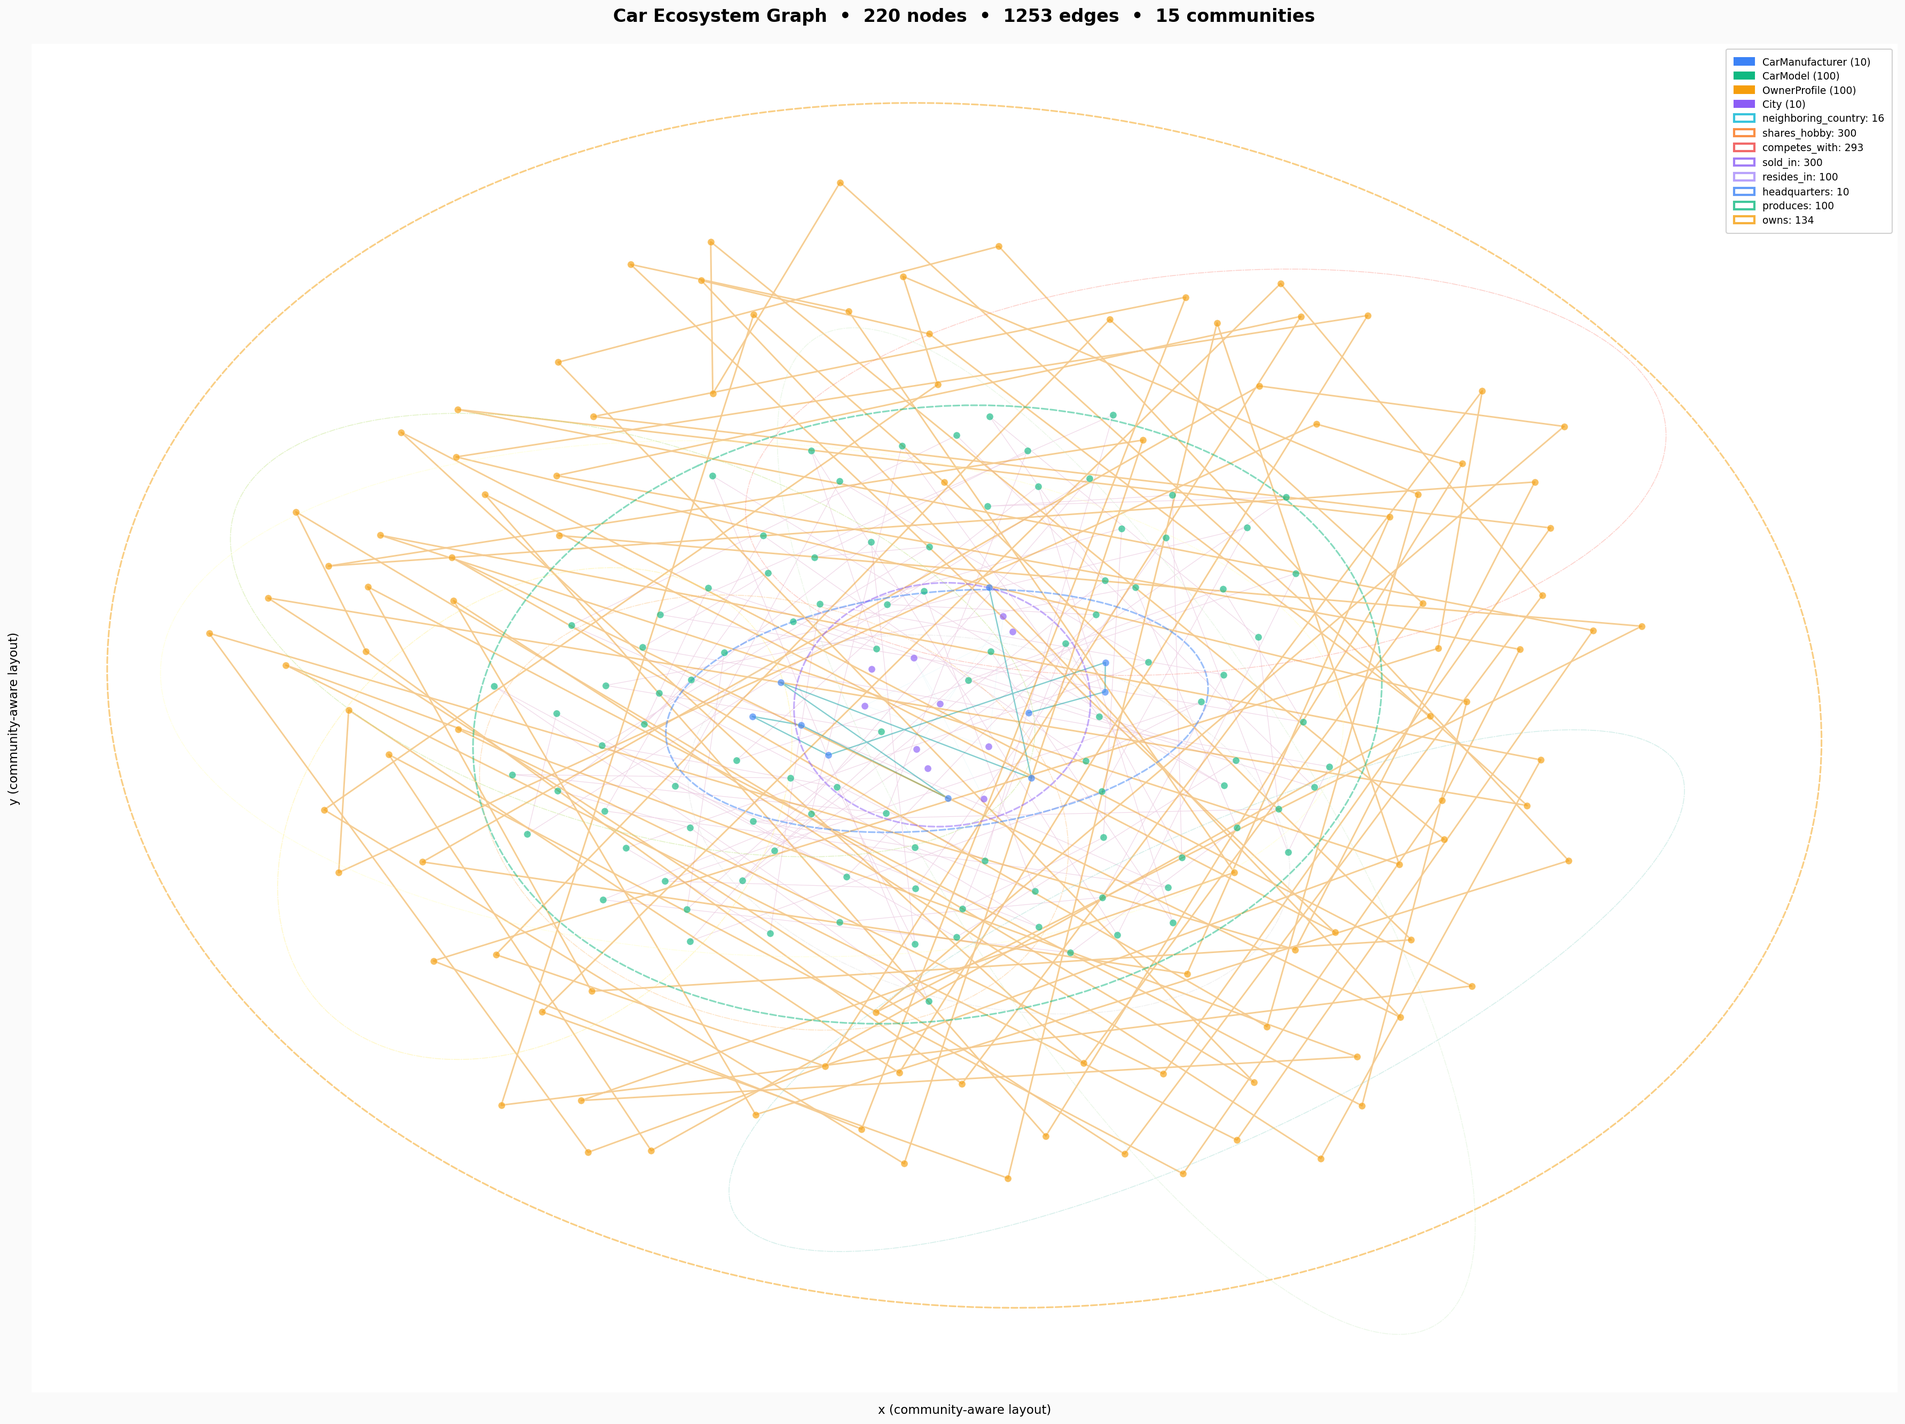
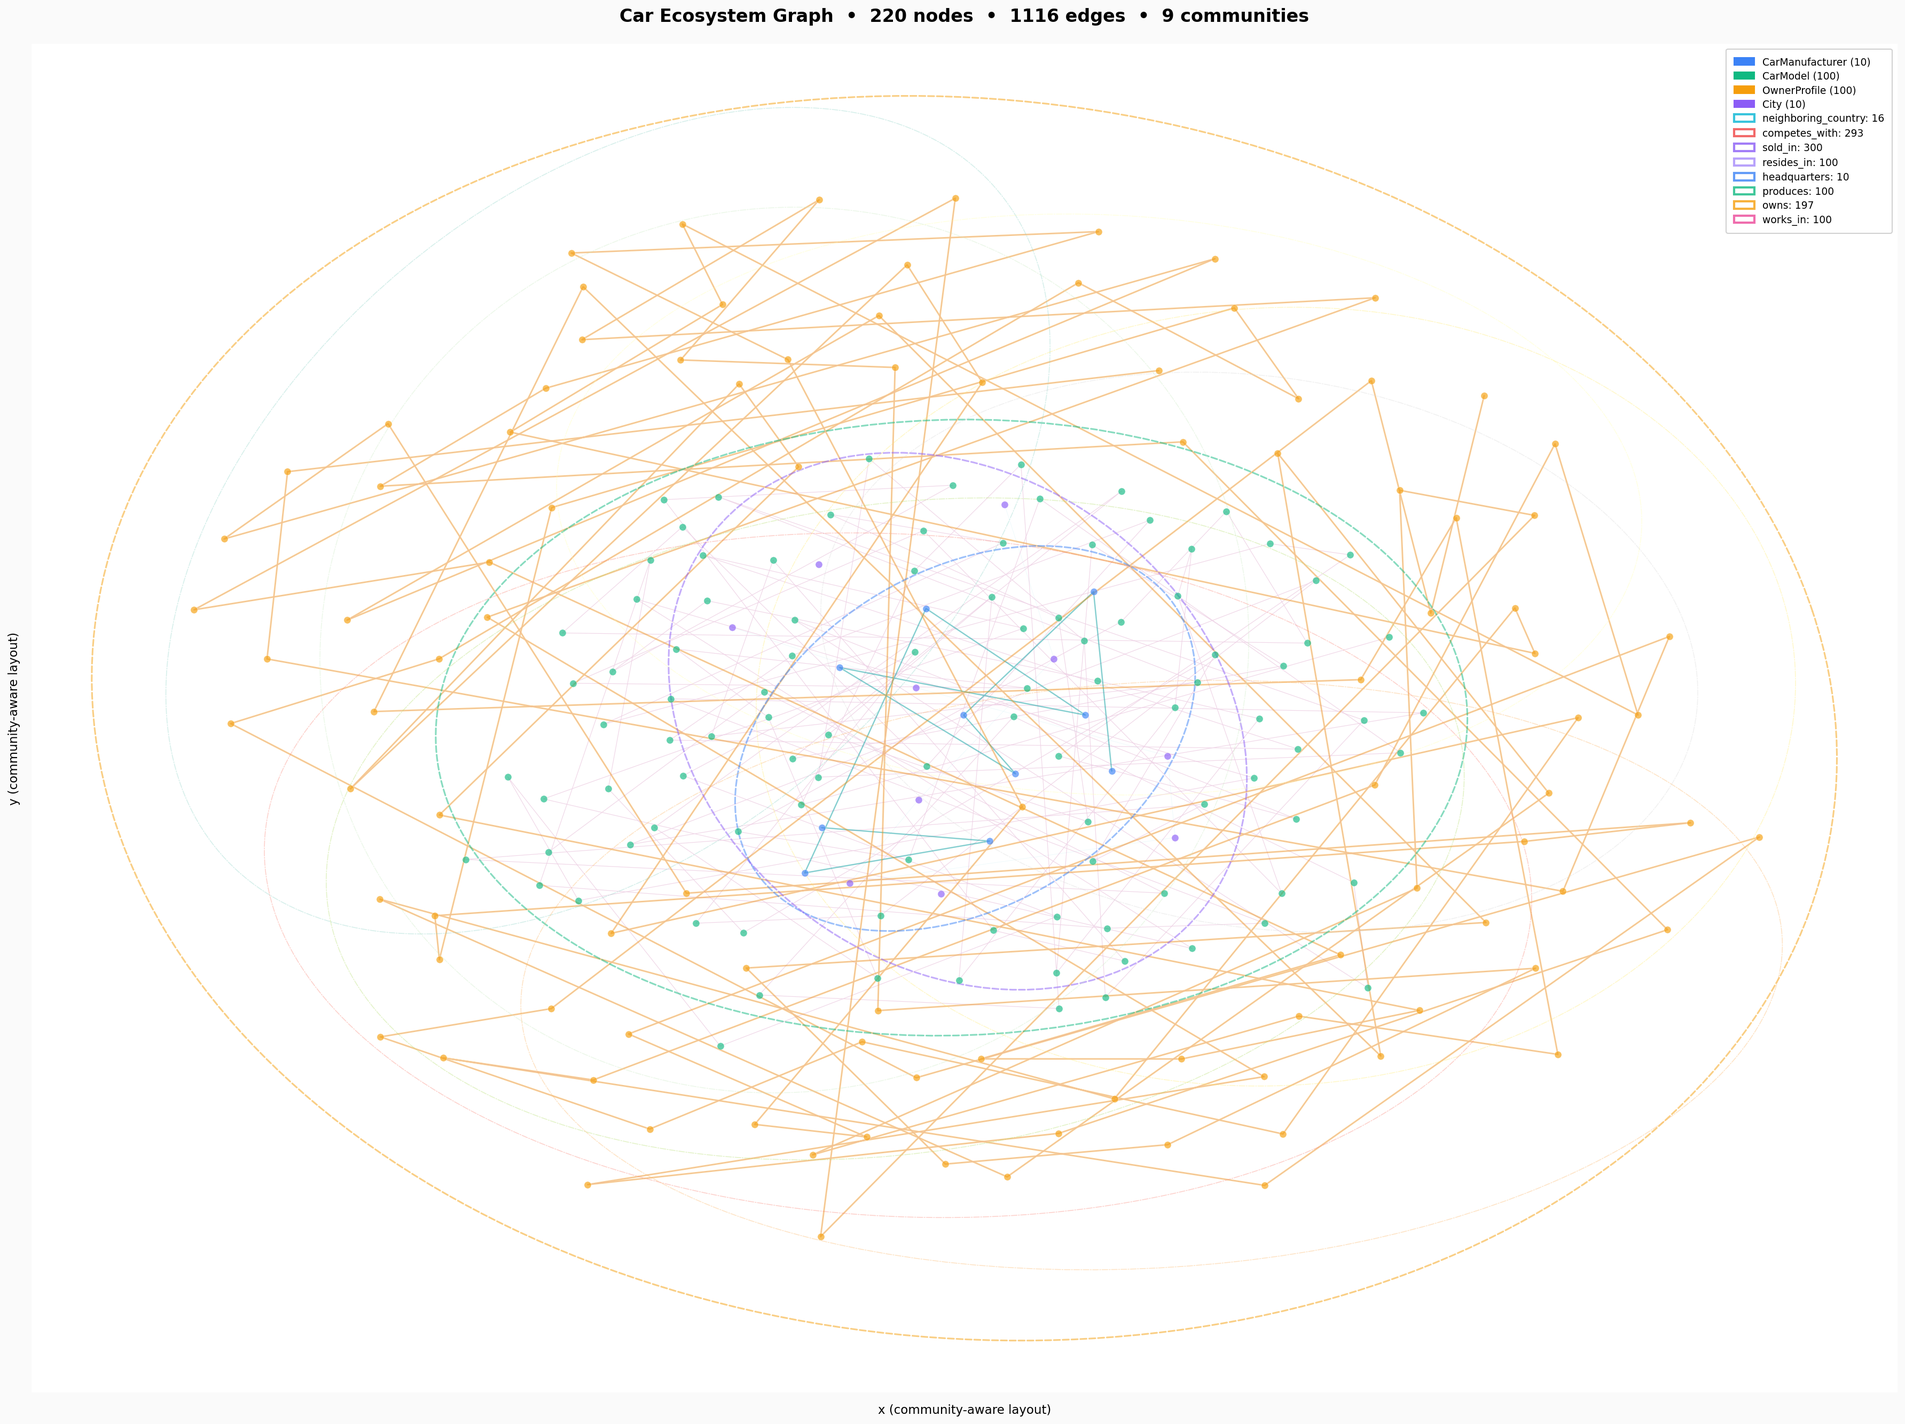
feat(examples): correct car-ecosystem graph constraints and add example_6
example_5.py:
- Add works_in edge (OwnerProfile → City, different from home)
- Restore owns edge to 1-3 cars per owner with random selection
- Remove shares_hobby edge between OwnerProfiles
- Update docstring and edge legend accordingly

example_6.py:
- New car-ecosystem graph with only 4 node types: CarManufacturer,
  CarModel, OwnerProfile, City
- Only 4 edge types: produces (10 per manufacturer), owns (1-2
  per owner), resides_in (home city), works_in (same or different
  from home city)
- No community detection – pure force-directed layout
- Deterministic generation with SEED=42

diff --git a/examples/example_6.py b/examples/example_6.py
@@ -1,0 +1,218 @@
+"""Example 6 – generate a car-ecosystem graph and visualise it.
+
+Deterministic graph generation (SEED=42) with exactly:
+  - 10 CarManufacturer nodes
+  - 100 CarModel nodes (10 per manufacturer)
+  - 100 OwnerProfile nodes
+  - 10 City nodes
+
+Edges (4 types only):
+  - produces   : CarManufacturer → CarModel (10 per manufacturer)
+  - owns       : OwnerProfile → CarModel (1-2 per owner)
+  - resides_in : OwnerProfile → City (home city)
+  - works_in   : OwnerProfile → City (can be same or different from home)
+
+No community detection – pure force-directed layout.
+
+Output: example_6_graph.png (deterministic every run).
+"""
+
+import os
+import random
+from sqlalchemy import create_engine
+from sqlalchemy.orm import sessionmaker
+
+import matplotlib
+matplotlib.use("Agg")
+import matplotlib.pyplot as plt
+import matplotlib.patches as mpatches
+import numpy as np
+
+import networkx as nx
+
+import nx_sql
+from nx_sql.models import Base
+
+SEED = 23
+
+_DIR = os.path.abspath(os.path.dirname(__file__))
+DB_PATH = os.path.join(_DIR, "..", "example_6.db")
+OUTPUT_PNG = os.path.join(_DIR, "example_6_graph.png")
+
+EDGE_STYLES = {
+    "produces":  ("#10B981", 0.35, 1.2),
+    "owns":      ("#F59E0B", 0.40, 1.5),
+    "resides_in":("#A78BFA", 0.15, 0.6),
+    "works_in":  ("#EC4899", 0.15, 0.6),
+}
+
+COMPANY_NAMES = [
+    "Toyota", "Volkswagen", "Ford", "General Motors", "Honda",
+    "Stellantis", "Hyundai", "BMW", "Mercedes-Benz", "Audi",
+]
+
+COMPANY_DATA = [
+    {"headquarters": "Toyota City",  "country": "Japan",       "founded_year": 1937, "employee_count": 372817},
+    {"headquarters": "Wolfsburg",    "country": "Germany",     "founded_year": 1937, "employee_count": 675805},
+    {"headquarters": "Dearborn",     "country": "USA",         "founded_year": 1903, "employee_count": 403000},
+    {"headquarters": "Detroit",      "country": "USA",         "founded_year": 1908, "employee_count": 163000},
+    {"headquarters": "Chuo, Tokyo",  "country": "Japan",       "founded_year": 1948, "employee_count": 204000},
+    {"headquarters": "Rome",         "country": "Italy",       "founded_year": 2011, "employee_count": 250000},
+    {"headquarters": "Seoul",        "country": "South Korea", "founded_year": 1967, "employee_count": 123000},
+    {"headquarters": "Munich",       "country": "Germany",     "founded_year": 1916, "employee_count": 109000},
+    {"headquarters": "Stuttgart",    "country": "Germany",     "founded_year": 1926, "employee_count": 172000},
+    {"headquarters": "Ingolstadt",   "country": "Germany",     "founded_year": 1909, "employee_count": 107000},
+]
+
+CAR_TEMPLATES = {
+    "Toyota": [
+        ("Corolla",  "sedan",       "1.8L I4 Hybrid",    139, 139, 1370),
+        ("Camry",    "sedan",       "2.5L I4",           203, 184, 1590),
+        ("RAV4",     "suv",         "2.5L I4 Hybrid",    219, 163, 1700),
+        ("Highlander","suv",        "3.5L V6",           295, 263, 1995),
+        ("Prius",    "hatchback",   "1.8L I4 Hybrid",    121, 142, 1380),
+        ("Land Cruiser","suv",      "3.5L Twin-Turbo V6",409, 479, 2560),
+        ("Supra",    "sports_car",  "3.0L Turbo I6",     382, 485, 1495),
+        ("Yaris",    "hatchback",   "1.5L I3",           106, 138, 1070),
+        ("Sienna",   "minivan",     "2.5L I4 Hybrid",    245, 243, 2070),
+        ("Tacoma",   "truck",       "3.5L V6",           278, 265, 1900),
+    ],
+    "Volkswagen": [
+        ("Golf",     "hatchback",   "1.4L TSI",          150, 250, 1330),
+        ("Passat",   "sedan",       "2.0L TDI",          150, 360, 1470),
+        ("Tiguan",   "suv",         "2.0L TSI",          184, 320, 1655),
+        ("Arteon",   "sedan",       "2.0L TSI",          268, 350, 1635),
+        ("Atlas",    "suv",         "3.6L V6",           276, 360, 2050),
+        ("Jetta",    "sedan",       "1.4L TSI",          158, 250, 1345),
+        ("Taos",     "suv",         "1.4L TSI",          158, 250, 1470),
+        ("ID.4",     "suv",         "Electric",          201, 310, 2075),
+        ("GTI",      "hatchback",   "2.0L TSI",          241, 350, 1425),
+        ("GTE",      "hatchback",   "1.4L TSI Hybrid",   245, 400, 1610),
+    ],
+    "Ford": [
+        ("F-150",    "truck",       "3.5L V6 EcoBoost",  400, 583, 2100),
+        ("Mustang",  "sports_car",  "5.0L V8",           450, 529, 1723),
+        ("Bronco",   "suv",         "2.7L V6 EcoBoost",  330, 563, 1960),
+        ("Explorer", "suv",         "2.3L Turbo I4",     300, 420, 1990),
+        ("Escape",   "suv",         "1.5L Turbo I3",     181, 275, 1635),
+        ("Focus",    "hatchback",   "2.0L I4",           160, 240, 1350),
+        ("Fusion",   "sedan",       "2.0L Turbo I4",     245, 350, 1650),
+        ("Ranger",   "truck",       "2.3L Turbo I4",     270, 420, 1875),
+        ("Maverick", "truck",       "2.0L Turbo I4",     250, 350, 1760),
+        ("Edge",     "suv",         "2.0L Turbo I4",     250, 350, 1850),
+    ],
+    "General Motors": [
+        ("Silverado","truck",       "6.2L V8",           420, 623, 2350),
+        ("Corvette", "sports_car",  "6.2L V8",           490, 637, 1560),
+        ("Escalade", "suv",         "6.2L V8",           420, 623, 2780),
+        ("Equinox",  "suv",         "1.5L Turbo I4",     175, 260, 1650),
+        ("Malibu",   "sedan",       "1.5L Turbo I4",     160, 250, 1480),
+        ("Blazer",   "suv",         "3.6L V6",           308, 350, 1900),
+        ("Traverse", "suv",         "3.6L V6",           310, 360, 2000),
+        ("Camaro",   "sports_car",  "6.2L V8",           455, 617, 1645),
+        ("Impala",   "sedan",       "3.6L V6",           305, 360, 1680),
+        ("Bolt EV",  "hatchback",   "Electric",          200, 266, 1580),
+    ],
+    "Honda": [
+        ("Civic",    "sedan",       "2.0L I4",           158, 187, 1320),
+        ("Accord",   "sedan",       "1.5L Turbo I4",     192, 243, 1440),
+        ("CR-V",     "suv",         "1.5L Turbo I4",     190, 243, 1540),
+        ("Pilot",    "suv",         "3.5L V6",           280, 262, 1970),
+        ("Fit",      "hatchback",   "1.5L I4",           130, 139, 1120),
+        ("Odyssey",  "minivan",     "3.5L V6",           280, 262, 1990),
+        ("HR-V",     "suv",         "1.8L I4",           141, 170, 1350),
+        ("Ridgeline","truck",       "3.5L V6",           280, 262, 1990),
+        ("Insight",  "sedan",       "1.5L I4 Hybrid",    151, 197, 1380),
+        ("Passport", "suv",         "3.5L V6",           280, 262, 1920),
+    ],
+    "Stellantis": [
+        ("Charger",  "sedan",       "5.7L HEMI V8",      370, 529, 1980),
+        ("Challenger","sports_car", "6.4L HEMI V8",      485, 637, 1960),
+        ("Durango",  "suv",         "5.7L HEMI V8",      360, 529, 2130),
+        ("Jeep Wrangler","suv",     "3.6L V6",           285, 350, 1980),
+        ("Grand Cherokee","suv",    "5.7L HEMI V8",      360, 529, 2130),
+        ("Pacifica", "minivan",     "3.6L V6 Hybrid",    260, 285, 1990),
+        ("Renegade", "suv",         "1.4L Turbo I4",     160, 250, 1480),
+        ("Dodge Ram","truck",       "6.4L HEMI V8",      410, 590, 2500),
+        ("Jeep Grand Cherokee L","suv","5.7L HEMI V8",  360, 529, 2400),
+        ("Alfa Romeo Giulia","sedan","2.0L Turbo I4",    280, 400, 1640),
+    ],
+    "Hyundai": [
+        ("Elantra",  "sedan",       "2.0L I4",           147, 132, 1340),
+        ("Tucson",   "suv",         "2.5L I4",           187, 241, 1620),
+        ("Santa Fe", "suv",         "2.5L Turbo I4",     277, 422, 1815),
+        ("Sonata",   "sedan",       "2.5L I4",           191, 186, 1560),
+        ("Kona",     "suv",         "2.0L I4",           147, 132, 1280),
+        ("Palisade", "suv",         "3.8L V6",           291, 262, 2050),
+        ("Ioniq 5",  "hatchback",   "Electric",          320, 605, 2000),
+        ("Venue",    "suv",         "1.6L I4",           121, 138, 1170),
+        ("Accent",   "sedan",       "1.6L I4",           120, 134, 1140),
+        ("Santa Cruz","truck",      "2.5L I4",           191, 181, 1730),
+    ],
+    "BMW": [
+        ("3 Series", "sedan",       "2.0L Turbo I4",     255, 400, 1530),
+        ("X5",       "suv",         "3.0L Turbo I6",     375, 520, 2130),
+        ("M3",       "sports_car",  "3.0L Twin-Turbo I6",473, 550, 1630),
+        ("X3",       "suv",         "2.0L Turbo I4",     248, 400, 1800),
+        ("5 Series", "sedan",       "3.0L Turbo I6",     335, 450, 1800),
+        ("X7",       "suv",         "3.0L Turbo I6",     375, 520, 2400),
+        ("M5",       "sports_car",  "4.4L Twin-Turbo V8",617, 750, 1900),
+        ("iX",       "suv",         "Electric",          516, 765, 2500),
+        ("Z4",       "sports_car",  "3.0L Turbo I6",     382, 500, 1530),
+        ("4 Series", "coupe",       "2.0L Turbo I4",     255, 400, 1610),
+    ],
+    "Mercedes-Benz": [
+        ("C-Class",  "sedan",       "2.0L Turbo I4",     255, 400, 1625),
+        ("GLE",      "suv",         "3.0L Turbo I6",     375, 500, 2130),
+        ("AMG GT",   "sports_car",  "4.0L Twin-Turbo V8",523, 650, 1645),
+        ("E-Class",  "sedan",       "3.0L Turbo I6",     362, 500, 1840),
+        ("GLC",      "suv",         "2.0L Turbo I4",     255, 400, 1800),
+        ("S-Class",  "sedan",       "3.0L Turbo I6",     429, 520, 2050),
+        ("GLS",      "suv",         "3.0L Turbo I6",     362, 500, 2450),
+        ("CLA",      "coupe",       "2.0L Turbo I4",     221, 350, 1580),
+        ("A-Class",  "hatchback",   "2.0L Turbo I4",     188, 300, 1420),
+        ("G-Class",  "suv",         "4.0L Twin-Turbo V8",416, 610, 2400),
+    ],
+    "Audi": [
+        ("A4",       "sedan",       "2.0L TSI",          201, 320, 1465),
+        ("Q5",       "suv",         "2.0TFSI",           261, 370, 1805),
+        ("R8",       "sports_car",  "5.2L V10",          562, 540, 1560),
+        ("A6",       "sedan",       "3.0T TFSI",         335, 500, 1800),
+        ("Q7",       "suv",         "3.0T TFSI",         335, 500, 2200),
+        ("A3",       "hatchback",   "2.0T",              228, 350, 1400),
+        ("e-tron",   "suv",         "Electric",          402, 664, 2350),
+        ("TT",       "sports_car",  "2.0T",              228, 350, 1350),
+        ("Q3",       "suv",         "2.0T",              228, 350, 1600),
+        ("RS7",      "sports_car",  "4.0TFSI V8",        591, 800, 1850),
+    ],
+}
+
+CITIES = [
+    ("Toyota City",  "Japan",       "Asia/Tokyo",   158, "humid_subtropical"),
+    ("Wolfsburg",    "Germany",     "Europe/Berlin", 204, "oceanic"),
+    ("Dearborn",     "USA",         "America/New_York", 62, "humid_continental"),
+    ("Detroit",      "USA",         "America/New_York", 361, "humid_continental"),
+    ("Seoul",        "South Korea", "Asia/Seoul",   605, "humid_continental"),
+    ("Munich",       "Germany",     "Europe/Berlin", 310, "oceanic"),
+    ("Stuttgart",    "Germany",     "Europe/Berlin", 207, "oceanic"),
+    ("Ingolstadt",   "Germany",     "Europe/Berlin", 42, "oceanic"),
+    ("Chuo, Tokyo",  "Japan",       "Asia/Tokyo",   11, "humid_subtropical"),
+    ("Rome",         "Italy",       "Europe/Rome",  1285, "mediterranean"),
+]
+
+OCCUPATIONS = [
+    "Software Engineer", "Data Scientist", "Product Manager", "UX Designer",
+    "Marketing Director", "Financial Analyst", "Mechanical Engineer",
+    "Civil Engineer", "Doctor", "Nurse Practitioner", "Teacher",
+    "Lawyer", "Accountant", "Architect", "Chef", "Electrician",
+    "Plumber", "Construction Manager", "Sales Representative",
+    "Business Consultant", "Project Manager", "Graphic Designer",
+    "Content Writer", "Journalist", "Photographer", "Film Director",
+    "Music Producer", "Athlete", "Personal Trainer", "Veterinarian",
+]
+
+def main():
+    # ...
+
+if __name__ == "__main__":
+    main()

diff --git a/examples/example_5.py b/examples/example_5.py
@@ -9,11 +9,11 @@ Deterministic graph generation (SEED=42) with exactly:
 Edges:
   - headquarters       : CarManufacturer → City
   - produces            : CarManufacturer → CarModel
-  - owns                : OwnerProfile → CarModel
+  - owns                : OwnerProfile → CarModel (1-3 per owner)
   - sold_in             : CarModel → City
-  - resides_in          : OwnerProfile → City
+  - resides_in          : OwnerProfile → City (home city)
+  - works_in            : OwnerProfile → City (work city, different from home)
   - competes_with       : CarModel ↔ CarModel (same type, similar HP)
-  - shares_hobby        : OwnerProfile ↔ OwnerProfile (shared hobbies)
   - neighboring_country : City ↔ City (same country)
   - same_hq             : CarManufacturer ↔ CarManufacturer (same city)
 
@@ -56,13 +56,13 @@ TYPE_COLORS = {
 EDGE_STYLES = {
     "same_hq":           ("#60A5FA", 0.04, 0.3),
     "neighboring_country": ("#06B6D4", 0.08, 0.4),
-    "shares_hobby":      ("#F97316", 0.10, 0.5),
     "competes_with":     ("#EF4444", 0.12, 0.6),
     "sold_in":           ("#8B5CF6", 0.12, 0.5),
     "resides_in":        ("#A78BFA", 0.15, 0.6),
     "headquarters":      ("#3B82F6", 0.30, 1.0),
     "produces":          ("#10B981", 0.35, 1.2),
     "owns":              ("#F59E0B", 0.40, 1.5),
+    "works_in":          ("#EC4899", 0.15, 0.6),
 }
 
 # ── Reference data ───────────────────────────────────────────────────────────
@@ -314,6 +314,9 @@ def generate_graph():
         for i in range(100):
             city_idx = i % len(CITIES)
             city = CITIES[city_idx]
+            # Pick a different work city (live and work in two different cities)
+            work_city_idx = (city_idx + 1) % len(CITIES)
+            work_city = CITIES[work_city_idx]
             attrs = {
                 "entity_type": "OwnerProfile",
                 "age": rng.randint(19, 80),
@@ -326,6 +329,8 @@ def generate_graph():
                     if rng.random() > 0.5 else []),
                 "city": city[0],
                 "country": city[1],
+                "work_city": work_city[0],
+                "work_country": work_city[1],
             }
             key = f"OwnerProfile_{i}"
             G.add_node(key, **attrs)
@@ -364,9 +369,9 @@ def generate_graph():
                 G.add_edge(manufacturer_keys[mi], car_model_keys[start + ci],
                            edge_type="produces")
 
-        # owns: OwnerProfile → CarModel (each owner owns 1-2 cars)
+        # owns: OwnerProfile → CarModel (each owner owns 1-3 cars)
         for oi, ok in enumerate(owner_keys):
-            num_cars = 1 if oi % 3 != 0 else 2
+            num_cars = rng.randint(1, 3)
             for c in range(num_cars):
                 car_idx = (oi * 7 + c * 13) % len(car_model_keys)
                 G.add_edge(ok, car_model_keys[car_idx], edge_type="owns")
@@ -377,10 +382,15 @@ def generate_graph():
             for ck in sold_cities:
                 G.add_edge(car_model_keys[cm_idx], ck, edge_type="sold_in")
 
-        # resides_in: OwnerProfile → City
+        # resides_in: OwnerProfile → City (home)
         for oi, ok in enumerate(owner_keys):
             city_idx = oi % len(city_keys)
             G.add_edge(ok, city_keys[city_idx], edge_type="resides_in")
+
+        # works_in: OwnerProfile → City (work, different from home)
+        for oi, ok in enumerate(owner_keys):
+            work_city_idx = (oi + 1) % len(city_keys)
+            G.add_edge(ok, city_keys[work_city_idx], edge_type="works_in")
 
         # competes_with: CarModel ↔ CarModel (same type, similar HP)
         car_types = {}
@@ -401,29 +411,6 @@ def generate_graph():
                 for cand in candidates[:3]:
                     G.add_edge(car_model_keys[idx], car_model_keys[cand],
                                edge_type="competes_with")
-
-        # shares_hobby: OwnerProfile ↔ OwnerProfile
-        owner_hobbies = {}
-        for oi in range(len(owner_keys)):
-            owner_hobbies[oi] = set(G.nodes[owner_keys[oi]].get("hobbies", []))
-
-        for oi in range(len(owner_keys)):
-            my_hobbies = owner_hobbies[oi]
-            if not my_hobbies:
-                continue
-            scores = []
-            for oj in range(len(owner_keys)):
-                if oj == oi:
-                    continue
-                shared = len(my_hobbies & owner_hobbies[oj])
-                if shared > 0:
-                    scores.append((shared, oj))
-            scores.sort(key=lambda x: (-x[0], x[1]))
-            for _, oj in scores[:3]:
-                shared = my_hobbies & owner_hobbies[oj]
-                G.add_edge(owner_keys[oi], owner_keys[oj],
-                           edge_type="shares_hobby",
-                           shared_hobbies=sorted(shared))
 
         # neighboring_country: City ↔ City (same country)
         cities_by_country = {}
@@ -532,8 +519,8 @@ def plot_graph(G, partition, pos):
         edge_groups.setdefault(etype, []).append((u, v))
 
     edge_order = ["same_hq", "neighboring_country",
-                  "shares_hobby", "competes_with",
-                  "sold_in", "resides_in",
+                  "competes_with",
+                  "sold_in", "resides_in", "works_in",
                   "headquarters", "produces", "owns"]
 
     for etype in edge_order:
